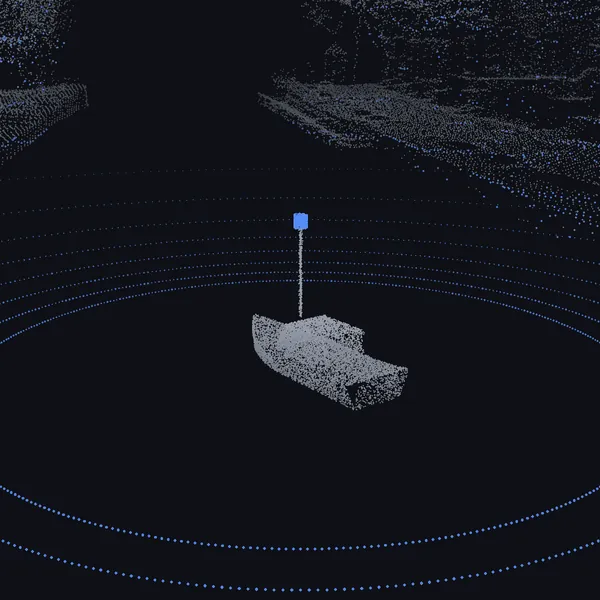
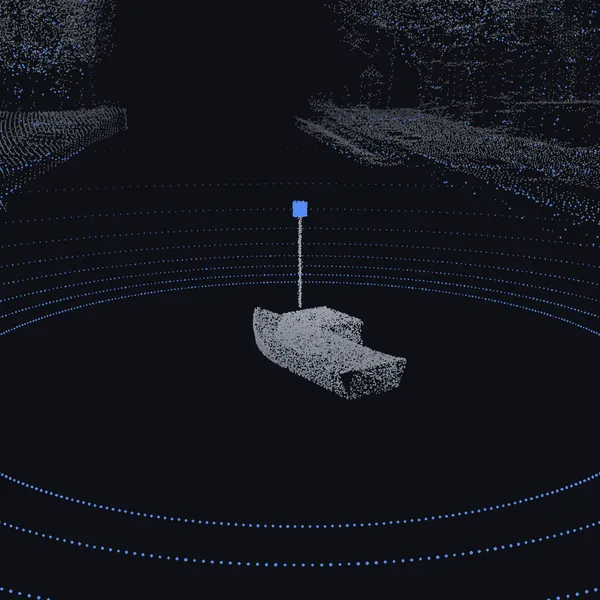
Roboat hero tile: low-view framing, closer, boat about a quarter of the tile

diff --git a/scripts/make-roboat-plate.py b/scripts/make-roboat-plate.py
@@ -304,7 +304,7 @@ ALT_OUT = Path.home() / "Perso/site-review/files"
 VIEWS = {
     "low": dict(cam=cam_persp((-25.0, 2.0, 6.0), (14.0, 0.0, 3.0), 1650, oy=0.19), ring_far=80,
                 still=ALT_OUT / "roboat-low.webp", anim=ALT_OUT / "roboat-low-anim.webp"),
-    "tile": dict(cam=cam_persp((-19.0, 3.0, 7.0), (0.5, 0.0, 1.2), 1800, oy=0.5), ring_far=60,
+    "tile": dict(cam=cam_persp((-19.0, 2.0, 6.0), (0.4, 0.0, 1.0), 1800, oy=0.5), ring_far=80,
                  still=OUT / "hero-tile.webp", anim=OUT / "hero-tile-anim.webp", still_q=80, anim_q=32),
     "high": dict(cam=cam_persp((-40.0, 0.0, 31.0), (6.0, 0.0, 0.0), 1250, oy=0.40), ring_far=140,
                  still=OUT / "card-plate.webp", anim=OUT / "card-anim.webp"),
@@ -322,7 +322,7 @@ def run(name, sc):
     cam, RING_FAR = v["cam"], v["ring_far"]
     v["still"].parent.mkdir(parents=True, exist_ok=True)
     full = render(cam, groups(sc, cam))
-    small = name == "tile"
+    small = name.startswith("tile")
     (full.resize((600, 600), Image.LANCZOS) if small else full).save(v["still"], "WEBP", quality=v.get("still_q", 84), method=6)
     rng = np.random.default_rng(3)
     frames = []
